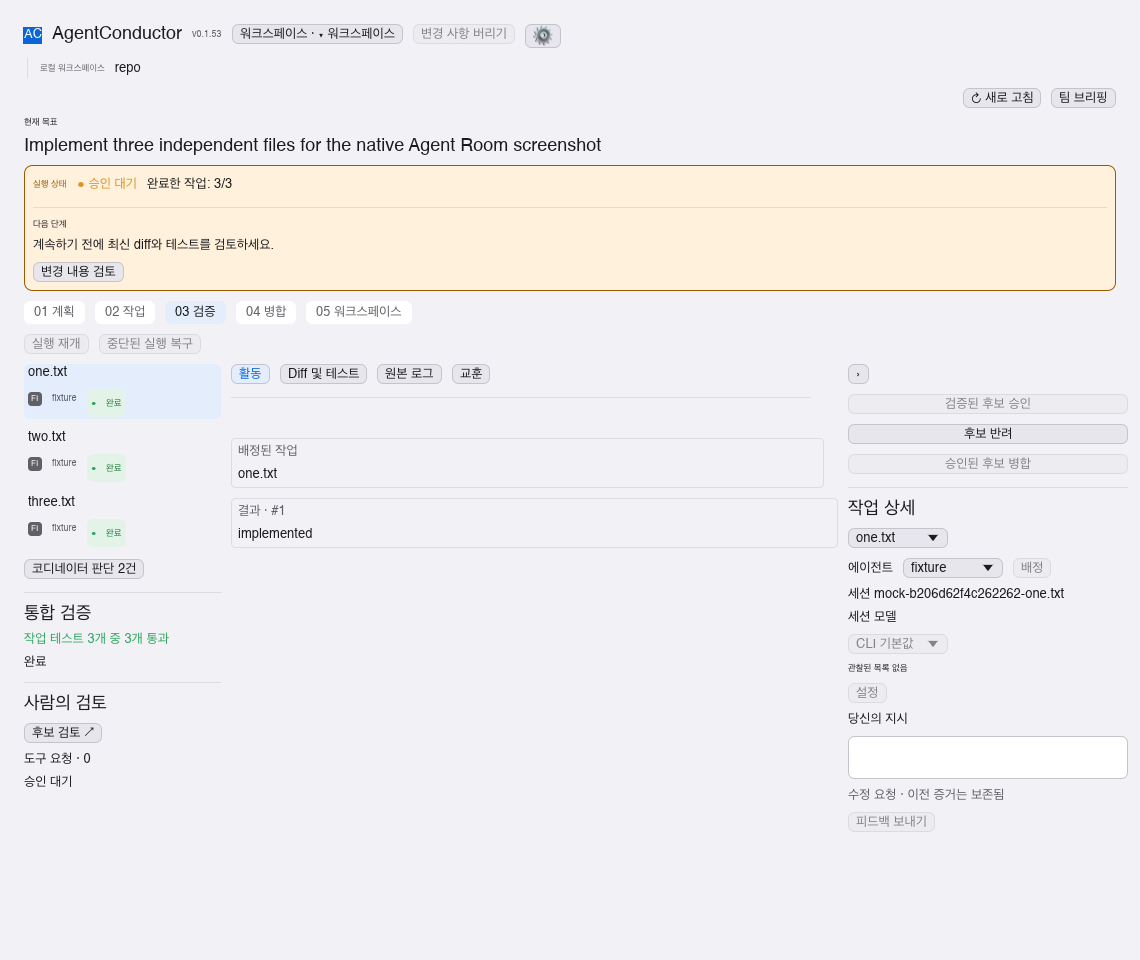
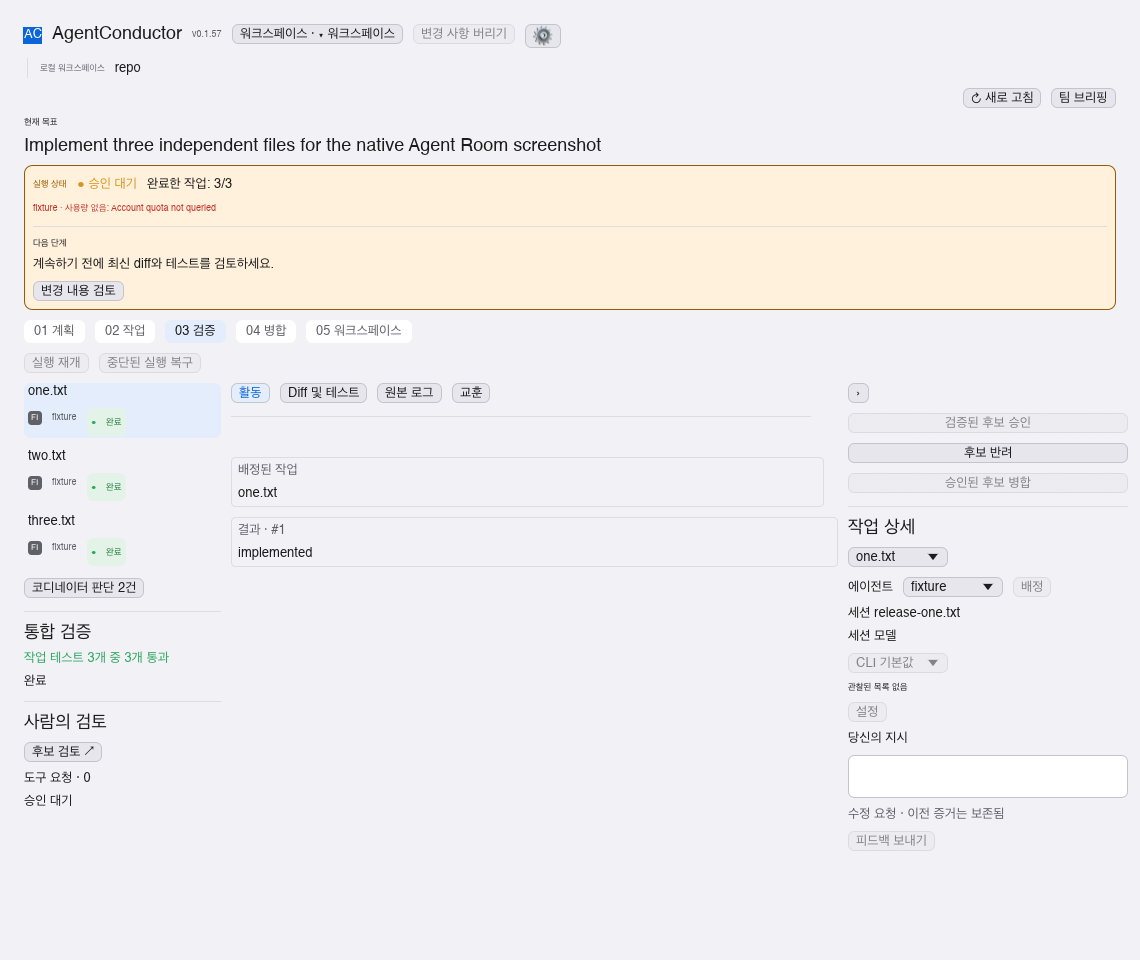
docs: refresh native Agent Room screenshots

diff --git a/docs/07-implementation-plan.md b/docs/07-implementation-plan.md
@@ -42,6 +42,13 @@
 - [ ] Verify packaged Windows UI: review exact-head package evidence from run `41480002744` and resolve any remaining failure.
 - [ ] Complete: update #9/PR #22 with exact package evidence, finish UI parity and screenshot gates, then close #9/merge #22 only after full acceptance.
 
+### 2026-11-03 — Refresh Agent Room manual screenshots — issue #9
+
+- [x] Plan: replace the stale v0.1.53 Agent Room images in both manuals with screenshots from the current Rust-native v0.1.57 source build.
+- [x] Task: create a deterministic three-task run that reaches human approval, then capture English and Korean light-theme views through the app's egui framebuffer capture.
+- [x] Verify: inspected both captures; they show all tasks complete, 3/3 integration tests passing, and approval required before merge. `check_screenshots` and `git diff --check` pass. The fixture and Cargo test mock files were removed after capture.
+- [x] Complete: refreshed `ui-agent-room-native.png` and `ui-agent-room-native-ko.png`; updated `screenshots-current.txt`. These are source-build screenshots, not packaged-release evidence.
+
 ### 2026-11-02 — Reconcile open PRs and release screenshot evidence — issue #9
 
 - [x] Plan: inspect the authoritative GitHub PR list and exact-head validation jobs before reporting progress. Only root Rust migration PR #22 is open; #336 has merged into main as `0c050741`.
